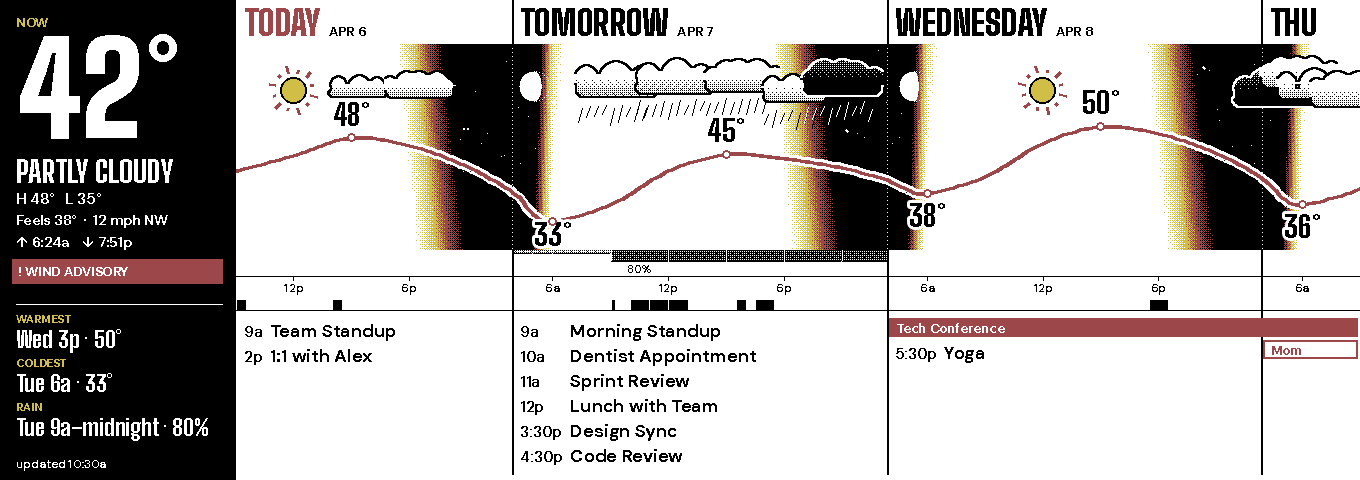
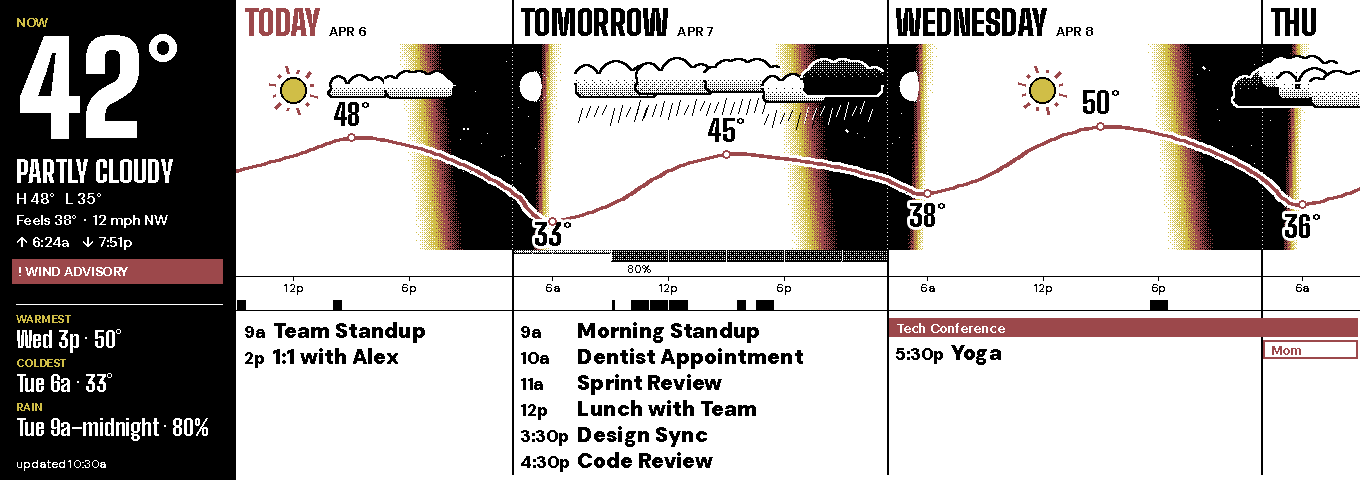
wide_horizon: set event rows in the heaviest DM Sans
Titles move from Bold 18 px to the axis maximum (wght 1000) at 21 px,
times from SemiBold 15 px to 900 at 17 px, in 26-px rows so a full day
still lists six. 800 and 900 hint to the same 1-bit stems as Bold at
this size, so the step goes to the maximum. Adds fonts.dm_black and
fonts.dm_extrablack.

Claude-Session: https://claude.ai/code/session_01KCiLHCYhChC1kojFWGv1dh

Changed region(s): [[0.3706, 0.6562, 0.5868, 1.0], [0.1853, 0.6562, 0.3088, 0.7812], [0.6485, 0.7188, 0.7412, 0.75]]

diff --git a/tests/test_wide_horizon_theme.py b/tests/test_wide_horizon_theme.py
@@ -662,6 +662,17 @@ class TestDayLists:
         rows = [self._list(img, day.date(), top=i * wh.ROW_H, h=wh.ROW_H) for i in range(6)]
         assert all(r > 100 for r in rows)
 
+    def test_rows_are_set_heavier_than_bold(self):
+        # Read at a glance across a room: the titles are the axis-maximum
+        # weight, which sets visibly more ink than DM Sans Bold at the same size.
+        evt = _event("Dentist Appointment", datetime(2026, 4, 7, 14))
+        data = DashboardData(events=[evt])
+        tue = date(2026, 4, 7)
+        heavy = self._list(_plate(data, mode="L").convert("1"), tue, h=wh.ROW_H)
+        with patch.object(fonts, "dm_extrablack", fonts.dm_bold):
+            bold = self._list(_plate(data, mode="L").convert("1"), tue, h=wh.ROW_H)
+        assert heavy > bold * 1.15
+
     def test_a_chip_on_another_day_does_not_push_the_list_down(self):
         evt = _event("Dentist", datetime(2026, 4, 7, 14))
         chip = _event("Conference", datetime(2026, 4, 8), hours=24, all_day=True)
@@ -1017,7 +1028,13 @@ class TestRender:
 class TestFonts:
     @pytest.mark.parametrize(
         "accessor",
-        [fonts.big_shoulders_semibold, fonts.big_shoulders_extrabold, fonts.big_shoulders_black],
+        [
+            fonts.big_shoulders_semibold,
+            fonts.big_shoulders_extrabold,
+            fonts.big_shoulders_black,
+            fonts.dm_black,
+            fonts.dm_extrablack,
+        ],
     )
     def test_loads_and_covers_the_glyphs_used(self, accessor):
         font = accessor(30)

diff --git a/src/render/components/wide_horizon_panel.py b/src/render/components/wide_horizon_panel.py
@@ -108,9 +108,11 @@ ALLDAY_H = 22
 STRIP_H = 10
 STRIP_GAP = 8
 # Each day's events listed in its own column, one line apiece.
-ROW_H = 25
-ROW_TITLE_PT = 18
-ROW_TIME_PT = 15
+# The heaviest DM Sans, a size up: read at a glance across a room. Six
+# rows still fill the band below the strip when no all-day chip crosses it.
+ROW_H = 26
+ROW_TITLE_PT = 21
+ROW_TIME_PT = 17
 COL_PAD = 8  # a column's text keeps this far off the midnight rules (= day-name inset)
 TIME_GAP = 8  # between the time cell and the title
 MIN_COL_W = 90  # a day's column narrower than this lists nothing, only a count
@@ -1423,9 +1425,9 @@ def _draw_events(draw, data: DashboardData, axis: TimeAxis, y0: int, y1: int, in
                     )
 
     hidden_by_day = overflow_counts(hidden, axis)
-    title_font = fonts.dm_bold(ROW_TITLE_PT)
-    time_font = fonts.dm_semibold(ROW_TIME_PT)
-    more_font = fonts.dm_bold(ROW_TIME_PT)
+    title_font = fonts.dm_extrablack(ROW_TITLE_PT)
+    time_font = fonts.dm_black(ROW_TIME_PT)
+    more_font = fonts.dm_black(ROW_TIME_PT)
 
     def measure_title(t: str) -> float:
         return text_width(draw, t, title_font)

diff --git a/src/render/fonts.py b/src/render/fonts.py
@@ -72,6 +72,15 @@ def dm_bold(size: int) -> ImageFont.FreeTypeFont:
     return _get_dm_sans(size, 700)
 
 
+def dm_black(size: int) -> ImageFont.FreeTypeFont:
+    return _get_dm_sans(size, 900)
+
+
+def dm_extrablack(size: int) -> ImageFont.FreeTypeFont:
+    """The axis maximum (1000): 800 and 900 hint to the same 1-bit stems as 700 at ~20 px."""
+    return _get_dm_sans(size, 1000)
+
+
 # Cinzel — Roman inscription caps, used for the D&D Fantasy theme.
 # Variable font with a single weight axis (wght 400–900).
 @lru_cache(maxsize=32)

diff --git a/CLAUDE.md b/CLAUDE.md
@@ -375,7 +375,7 @@ The cooldown is `display.min_refresh_interval_seconds` (config), defaulting to 6
 | `Oxanium-Variable.ttf` (OFL, variable) | `oxanium`, `oxanium_bold` | `terminal` — dashboard title, day column headers, quote body |
 | `Rajdhani-Regular.ttf` / `Rajdhani-SemiBold.ttf` (OFL) | `rajdhani`, `rajdhani_semibold` | `terminal` — month band, section labels, quote attribution |
 | `Orbitron-Variable.ttf` (OFL, variable) | `orbitron_black` | `terminal` — large today date numeral |
-| `DMSans.ttf` | `dm_regular/medium/semibold/bold` | `minimalist`, `weather`, `fuzzyclock`, `diags` (section labels), `countdown`, `astronomy`, `agenda`, `light_cycle`, `constellation_map` (margin) |
+| `DMSans.ttf` | `dm_regular/medium/semibold/bold/black/extrablack` | `wide_horizon` event rows (`dm_extrablack` titles, `dm_black` times — the axis maximum, since 800 and 900 hint to the same 1-bit stems as 700 at ~20 px), `minimalist`, `weather`, `fuzzyclock`, `diags` (section labels), `countdown`, `astronomy`, `agenda`, `light_cycle`, `constellation_map` (margin) |
 | `PlayfairDisplay-*.ttf` | `playfair_regular/medium/semibold/bold` | `old_fashioned`, `qotd`, `almanac` (body + quote), `wide_week` rail (masthead, temperature, NEXT time, quote mark) |
 | `Literata-SemiBold.ttf` / `Literata-Bold.ttf` (OFL; static instances at opsz 12 cut from the upstream variable font with `fonttools varLib.instancer`) | `literata_semibold`, `literata_bold` | `wide_week` rail — the quote (SemiBold ≥ 18 px, Bold below, via `wide_week_rail_panel.quote_font`) |
 | `Cinzel.ttf` | `cinzel_regular/semibold/bold/black` | `fantasy`, `old_fashioned` section labels, `moonphase`, `almanac` (section labels + small caps) |
@@ -504,7 +504,7 @@ default to `None` and fall back gracefully so adding a new field never breaks ex
 - **`display.scaling` decides how an off-size canvas reaches the panel** (`fit_canvas()` in `src/display/backend.py`). Every version so far stretched, and `auto` (the default) still does unless `distortion()` — the ratio between the panel's aspect and the canvas's — exceeds `FIT_DISTORTION_THRESHOLD` (4/3): a 4:3 `epd13in3k` is 1.25 and renders byte-identically to before, the 1360×480 strip is 1.7 and fits. `fit` pads with the theme's `bg`, passed to the backend as `background=` in the canvas's own mode (`pad_value()` converts it); `stretch` and `fit` are explicit overrides, and an unknown value behaves as `auto` at render time while `validate_config()` reports it. The backend tests build their config as a `MagicMock`, which is why `resolve_scaling()` treats anything but the two explicit strings as auto rather than raising.
 - **The `wide_*` themes declare a 1360×480 canvas** (`wide_week`, `wide_day`, `wide_forecast`, `wide_horizon`, `wide_night`, `wide_night_invert`, `wide_diags`, `halftone_agenda_wide`) and are the reason previews are rendered at the theme's canvas size when its *shape* differs from the panel's (`scripts/build_previews.py` swaps `cfg.display` width/height for the layout's only on an aspect mismatch — a supersampled 1600×960 canvas keeps the panel's 800×480 and its downsample) — on an 800×480 config they letterbox to a 800×282 band, which is what the pixel-snapshot and idle-tick suites hash. They are kept out of a random rotation on a panel of the other shape: `random_theme.eligible_themes(..., panel=)` drops any theme whose canvas would be fitted with padding there (`theme_fits_panel`, the same `FIT_DISTORTION_THRESHOLD` test `display.scaling: auto` applies), and `services/theme.py` and `validate_config` pass the configured panel. `OutputService` keys its default cooldown on the display spec, not the provider string, so a colour Waveshare model gets Inky's 60 s rather than the mono 0 s. `primitives.next_birthday()` is the one home of the Feb 29 → Feb 28 rollover; `birthday_bar`, `almanac`, `wide_day_panel` and `halftone_agenda_wide_panel` all call it. `wide_week` is the standard `week_view` on the right (920 px, full height, no header) beside `wide_week_rail_panel.py`, a 440-px broadsheet rail (Playfair Display, accent small-caps labels, hairline rules; section tops are fixed constants so the rules land in the same place daily) whose NOW/NEXT line is its one clock-driven element, moving only at event boundaries (hence `EXTRA_EVENT_DAYS["wide_week"] = 1`); the rail's type floor is 13 px with 16-px DM Sans **SemiBold** body rows (Medium at 13 px rasterised to hairlines), its quote is **Literata** (a reading serif drawn for e-readers; Playfair's hairlines broke up even at SemiBold) at SemiBold from 18 px and Bold below, because bilevel hinting snaps SemiBold's stems to 2 px at 16–17 px and a long quote stepping down a size would visibly thin out (`TestQuoteWeight` pins a 3-px stem at every `QUOTE_PTS` size), and `draw_wide_week_rail` sets `draw.fontmode = "1"` around the whole rail (restoring the caller's afterwards) because on the colour panels' RGB canvas antialiased glyph edges were cut at mid-grey by the four-ink snap, erasing Playfair's hairlines — `TestBilevelType` pins both; its sky rows reuse `wide_horizon_panel.sun_zone` for naive preview clocks; colour is split by ink — red (primary accent) for labels and warnings, yellow (the resolved `accent_warn`) **only as a fill behind ink type** (NOW/NEXT band, rain chips, a birthday today), never as type or rules, and `highlight()` returns `None` where `accent_warn` resolves to `fg` (mono) so the fills drop out rather than blacking the type out — the grid's `secondary_accent_fill()` colours the weekend headers' *text*, so switching the theme's secondary accent to yellow would have put yellow type in the grid; `wide_day` (`wide_day_panel.py`) packs bars into lanes by `pack_lanes()` over *bar-plus-label* pixel extents, not time spans — a thirty-minute meeting is 24 px on a sixteen-hour axis, so packing by time alone left a busy day as one lane of anonymous boxes — and is in `TIME_DRIVEN` (NOW marker) and `THEMES_NEEDING_TOMORROW` (its UP NEXT rail). `wide_forecast` (`wide_forecast_panel.py`) is idle-stable; its yellow precipitation fill is drawn only when `secondary_accent_fill()` differs from `fg` (`_tint()`), because on a monochrome plate a fill behind ink text is unreadable. All three name only red/yellow/black accents so the Inky preview and the four-ink panel agree.
 - **Art regions are the one place a colour panel dithers.** A colour backend snaps every pixel to the nearest ink (`quantize_to_palette_nearest` on the G panel, the Inky driver at write time), which flattens an illustration's gradient to one ink while the same theme's greyscale path keeps its engraving. `RenderContext.dither_regions` is a list the adapter fills from the panel's pure `art_rect(region)` (`halftone`, `halftone_agenda`, `halftone_agenda_wide` and `day_arc` declare their art panes; the panel itself never sees the list, so it stays a pure function of its inputs), and `canvas.render_dashboard` passes it to `resize_and_finalize(..., dither_regions=...)`. `backend.dither_art_regions()` maps each rectangle through `placement()` — the same arithmetic `fit_canvas` uses, so a region declared in canvas coordinates lands on the fitted or stretched plate — cuts it from the resized canvas *before* the snap, Floyd-Steinberg-diffuses it onto the inks with `quantize_to_palette_fs`, and pastes it over the snapped plate. Floyd-Steinberg, not ordered Bayer: it is what the themes' L-mode path already uses, so the engraving matches across panels, and diffusion has no error to spread on an exact ink, so a solid yellow disc stays solid where a Bayer offset would speckle it. On Inky the target palette is `INKY_SPECTRA6_PALETTE` (the driver's measured values) so the write-time nearest mapping is the identity on the region. On the G panel the art helpers still fill with the measured Spectra values (`skyart.accent_yellow`, `artkit.accent_red` don't know the panel), so `G_EXACT_REMAP` substitutes each Spectra-6 value with the G ink at the same index *before* diffusion — diffusing (208,190,71) against (255,255,0) turned a solid sun disc 47% yellow. Neutral pixels diffuse against black and white only (`NEUTRAL_SPREAD`); diffusing them against the whole palette let accumulated error drift in hue and sprinkled a night sky with coloured dots. The mixing widens the perceived gamut only *inside* the hull of the inks — orange, pink, maroon, olive and greys on the G panel — and can never produce a blue or green there. Declaring a region that contains type will speckle it; the mono `WaveshareBackend` ignores the list because its whole plate already dithers.
-- **`wide_horizon` puts the next 72 hours on one axis** (`wide_horizon_panel.py`). The window starts at `window_start(now)` — the 3-hour forecast slot holding now — so the clock moves the plate at most eight times a day and the theme stays out of `TIME_DRIVEN`; the TODAY→TONIGHT switch keys on the slot for the same reason (and `header_label()` sets today's name as a caption in the date face when its slice is too narrow for a headline — never a shrunken headline, never the short weekday), and the hero's "updated" caption reads `content_time`. `TimeAxis` is piecewise-linear by clock hour (`hour_weight`: 23:00–06:00 at `NIGHT_WEIGHT`), ~19 px per waking hour against ~16 linear. The sky's colour per column is `astronomy.solar_altitude` at that column's time plus `HORIZON_GLOW_DEG` toward the band's bottom, mapped by `sky_field()` to **ordered dithers between pairs of inks** (white/yellow, yellow/red, red/black on colour; one black/white ramp on mono) from an 8×8 Bayer phased to canvas coordinates. Everything on the plate is an exact ink — tones are dithered here and type is set with `draw.fontmode = "1"` — so the four-ink snap and the mono threshold are the identity at native size. The sky is deliberately **not** an art region: `dither_art_regions()` is not the identity on a tile of exact inks (its neutral pass Floyd-Steinbergs the tile's luminance, flipping black/white pixels beside red and yellow), so declaring it speckled the plate on the panel it was drawn for — `test_native_pipeline_changes_nothing_but_the_ink_snap` pins this. The theme declares `ordered` quantization so a *scaled mono* panel re-screens rather than flattening a blurred dither (which also derives it out of partial refresh); small type on a scaled plate comes out screened, the accepted cost of a strip theme on the wrong shape. The temperature comes from `WeatherData.hourly` (the OWM 3-hour grid, kept by `weather._parse_hourly`); `daily_extremes` labels only real turning points, since the window cuts days at both ends. OWM's grid starts at the first 3-hour **UTC** boundary after the request, so it never lines up with the local slot the window opens on; `lead_in()` fills the gap with stand-in slots carrying the current reading and icon, and `dummy_data._dummy_hourly` starts its grid the same way OWM does so previews exercise it. A slot is three hours of real time but the axis is the wall clock, so every consumer takes slot ends from `slot_spans()` (each ends where the next begins, trusted within an hour of 3 h) — `start + 3 h` left an hour of the plate blank at spring-forward and overlapped slots at fall-back. Stand-ins are the reading now held flat, so `daily_extremes` and `outlook` take `real_from` (the first real slot) and never label or report one — without it an evening plate showed its flat stand-in as the day's "high". High/low labels go through `place_label()`, which slides a label off any sun or moon box (`_draw_suns`/`_draw_moons` return boxes, not x) toward the side nearer its point. The events band is a **schedule strip** (a block per timed event over its real span, a pixel of paper either side so back-to-back meetings stay two) over **one list per day**, set in that day's midnight-to-midnight column (`day_columns()`): one line per event, start time then title, so labels never have to fit the ~19 px/hour axis — packing labels onto the axis staircased them into lanes and hid events while half the band sat empty. An event is listed on its start day, or the window's first day if it began earlier, where its time cell reads `–end` (`row_time()`). All-day chips are stacked by `stack_chips()`, not `pack_lanes()`: multi-day spans are seated first (longest first where they start together), and a single day takes the first free row below every span it overlaps, so a trip is never drawn under a one-day item on the same days; left-to-right packing gave row 0 to whichever chip started first. A list starts below only the all-day chips that cross its own column (`allday_depth()`). When a day has more rows than fit, or all-day chips past `ALLDAY_MAX_ROWS`, its last row is `+N more` instead of an event (`list_rows()`); a column under `MIN_COL_W` (an evening sliver) lists nothing and shows only `+N`. Clouds/rain/snow/storm/fog are drawn per slot from its icon (`sky_kind`), seeded by the slot's clock hour so they travel with the window; an overcast or wet slot hides the sun at noon and the moon at transit (`sun_hidden`), and scattered clouds keep `SUN_CLEARANCE` off both. With a naive render clock (previews, snapshots) `sun_zone()` places the sun in the whole-hour zone the longitude implies instead of UTC. `EXTRA_EVENT_DAYS["wide_horizon"] = 3`.
+- **`wide_horizon` puts the next 72 hours on one axis** (`wide_horizon_panel.py`). The window starts at `window_start(now)` — the 3-hour forecast slot holding now — so the clock moves the plate at most eight times a day and the theme stays out of `TIME_DRIVEN`; the TODAY→TONIGHT switch keys on the slot for the same reason (and `header_label()` sets today's name as a caption in the date face when its slice is too narrow for a headline — never a shrunken headline, never the short weekday), and the hero's "updated" caption reads `content_time`. `TimeAxis` is piecewise-linear by clock hour (`hour_weight`: 23:00–06:00 at `NIGHT_WEIGHT`), ~19 px per waking hour against ~16 linear. The sky's colour per column is `astronomy.solar_altitude` at that column's time plus `HORIZON_GLOW_DEG` toward the band's bottom, mapped by `sky_field()` to **ordered dithers between pairs of inks** (white/yellow, yellow/red, red/black on colour; one black/white ramp on mono) from an 8×8 Bayer phased to canvas coordinates. Everything on the plate is an exact ink — tones are dithered here and type is set with `draw.fontmode = "1"` — so the four-ink snap and the mono threshold are the identity at native size. The sky is deliberately **not** an art region: `dither_art_regions()` is not the identity on a tile of exact inks (its neutral pass Floyd-Steinbergs the tile's luminance, flipping black/white pixels beside red and yellow), so declaring it speckled the plate on the panel it was drawn for — `test_native_pipeline_changes_nothing_but_the_ink_snap` pins this. The theme declares `ordered` quantization so a *scaled mono* panel re-screens rather than flattening a blurred dither (which also derives it out of partial refresh); small type on a scaled plate comes out screened, the accepted cost of a strip theme on the wrong shape. The temperature comes from `WeatherData.hourly` (the OWM 3-hour grid, kept by `weather._parse_hourly`); `daily_extremes` labels only real turning points, since the window cuts days at both ends. OWM's grid starts at the first 3-hour **UTC** boundary after the request, so it never lines up with the local slot the window opens on; `lead_in()` fills the gap with stand-in slots carrying the current reading and icon, and `dummy_data._dummy_hourly` starts its grid the same way OWM does so previews exercise it. A slot is three hours of real time but the axis is the wall clock, so every consumer takes slot ends from `slot_spans()` (each ends where the next begins, trusted within an hour of 3 h) — `start + 3 h` left an hour of the plate blank at spring-forward and overlapped slots at fall-back. Stand-ins are the reading now held flat, so `daily_extremes` and `outlook` take `real_from` (the first real slot) and never label or report one — without it an evening plate showed its flat stand-in as the day's "high". High/low labels go through `place_label()`, which slides a label off any sun or moon box (`_draw_suns`/`_draw_moons` return boxes, not x) toward the side nearer its point. The events band is a **schedule strip** (a block per timed event over its real span, a pixel of paper either side so back-to-back meetings stay two) over **one list per day**, set in that day's midnight-to-midnight column (`day_columns()`): one line per event, start time then title (21 px `dm_extrablack` over 17 px `dm_black` in 26-px rows — six still fill the band), so labels never have to fit the ~19 px/hour axis — packing labels onto the axis staircased them into lanes and hid events while half the band sat empty. An event is listed on its start day, or the window's first day if it began earlier, where its time cell reads `–end` (`row_time()`). All-day chips are stacked by `stack_chips()`, not `pack_lanes()`: multi-day spans are seated first (longest first where they start together), and a single day takes the first free row below every span it overlaps, so a trip is never drawn under a one-day item on the same days; left-to-right packing gave row 0 to whichever chip started first. A list starts below only the all-day chips that cross its own column (`allday_depth()`). When a day has more rows than fit, or all-day chips past `ALLDAY_MAX_ROWS`, its last row is `+N more` instead of an event (`list_rows()`); a column under `MIN_COL_W` (an evening sliver) lists nothing and shows only `+N`. Clouds/rain/snow/storm/fog are drawn per slot from its icon (`sky_kind`), seeded by the slot's clock hour so they travel with the window; an overcast or wet slot hides the sun at noon and the moon at transit (`sun_hidden`), and scattered clouds keep `SUN_CLEARANCE` off both. With a naive render clock (previews, snapshots) `sun_zone()` places the sun in the whole-hour zone the longitude implies instead of UTC. `EXTRA_EVENT_DAYS["wide_horizon"] = 3`.
 - **`wide_night` gets its red from the primary accent, not from `bg`.** `_resolve_style()` only maps `fg`/`bg` to black or white, so a red ground cannot be declared as a style colour. The theme is a dark-canvas plate (`fg=1, bg=0` — which also derives it out of partial refresh and pads a letterboxed plate dark), and `wide_night_panel.colours()` fills the region with `primary_accent_fill()` and draws the marks in `bg` whenever the accent differs from `fg`; on monochrome the accent collapses onto `fg`, so it falls back to white-on-black. Marks are sized to one shared height by `fit_height()` — up to 80% of the plate, but in practice the row's width sets it — with a minimum gap proportional to the height (`MIN_GAP_FRACTION = 0.9`, the knob for the plate's overall size; a fixed gap is overtaken by the space inside `42°` as marks grow). Labels are a fixed `LABEL_PT`, tracked by hand (`tracked_width()` / `_draw_label()`, since PIL has no letter-spacing), and the marks' centre sits above the midline by half the label band so the group is centred. **Measure with `ink_box()`, not `textbbox()`**: for the weather-icons face `textbbox` returns the glyph's whole cell — every moon phase reports the full disc — so spacing by it leaves a crescent's gap on the wrong side. The moon glyphs ink only the lit part (the new-moon glyph is just a ring); the plate draws the lit part alone, with no outline on the dark limb, so a new moon shows nothing. The ring is still used to size the moon (so the disc is the shared height) and centre it vertically. Excluded from the random pool (a night plate drawn at noon is a surprise), `repaint_slot_hours=1`. `wide_night_invert` is the same layout via `dataclasses.replace` with `draw_order=["wide_night_invert"]` — a second component on the same `wide_night` region that calls `draw_wide_night(..., invert=True)`, which swaps `colours()`' ground and ink.
 - **`wide_diags` reads the panel's ink set off the resolved style.** It is the `diags` component on a `diags` region of `(0, 0, 800, 480)` plus `wide_diags_panel.py` on a new `ThemeLayout.wide_diags` region beside it (`draw_order=["diags", "wide_diags"]`). The theme leaves every accent role unset, so `_resolve_style()` fills them from the panel's palette; `panel_inks()` takes `fg`, `bg`, `accent_warn/alert/info/good` and keeps the first of each value — on the G panel blue and green resolve to black and drop out (four inks), on Inky all six survive, on monochrome every accent collapses onto `fg` (two). Ramps and textures are Bayer-screened by the panel in exact inks (`bayer_field` from `wide_horizon_panel`, phased to canvas coordinates) with `draw.fontmode = "1"`, so the colour snap is the identity on them — `test_g_swatches_reach_the_panel_as_drawn` pins that against a direct draw. The DIFFUSED row is the one art region (`diffused_rect()`, appended to `dither_regions` by the adapter): a hue sweep over a grey ramp the colour backend Floyd-Steinbergs; on a `"1"` canvas the panel pastes the grey ramp pre-dithered by PIL. `preferred_quantization_mode="ordered"` derives it out of partial refresh. It is in `ALWAYS_LIVE` in the idle-tick test (live host metrics, like `diags`) and excluded from the pool.
 - **`halftone_agenda_wide` is `halftone_agenda` drawn for the strip, not a copy of it.** `halftone_agenda_wide_panel.py` imports the original's `_draw_weather_band`, `_sun_times`, `_clock`, `event_times`, `inline_range`, `two_line_time_fits`, `past_screen` and `_location_text` (private names, deliberately — the two plates must read out the same things, and a second copy of the band or the time-cell rules would drift). The agenda pane itself is this plate's own (`_draw_wide_agenda`), and it deliberately has **no state treatments** — no perforated past rows, no inverted running event, no next-up accent, no `NEXT` figure in the header: on the four-ink panel every repaint is a twenty-second colour flash and each treatment repaints at every event boundary, so the day is shown whole and the same from dawn to dusk, with the after-dark rollover the one clock-driven change (one repaint a day). `tests/test_halftone_agenda_wide_theme.py` pins that a render before, during and after an event is byte-identical. Colour keys on the *kind* of event instead — a timed event's tick is `artkit.accent_yellow_solid`, an all-day event's `accent_red` (outlined in ink on mono, where both accents are ink) — which costs no repaints; the colour-panel variant of that test pins it. Use `accent_yellow_solid`, not `skyart.accent_yellow`, for marks and type: the latter's L-mode fallback is a light grey that `harden_typeset` snaps to paper. What 520 px of width pays for — a header dateline with the day's totals (`booked_minutes` counts overlaps once), a **schedule strip** (`_draw_schedule_strip`, solid blocks whatever the hour), a duration column, `— Nh Nm free` gap markers between events at least `GAP_MIN_MINUTES` apart (`gap_after` measures from the latest end so far, so a long event swallowing a short one reports no phantom gap), and time cells in **Antonio** (condensed, so titles gain the width). Its tiers are `_WIDE_TIERS`, chosen by `wide_metrics()` on rows *plus* gap markers, which are dropped before the type shrinks past 18 px. It adds the third pane: a rail with an alert bar, the next day's events, the forecast, birthdays, and an air-and-moon foot anchored to the rail's bottom (`FOOT_H`) so it can never be pushed off by a long birthday list — the birthdays cell takes whatever is left above it. The rail shows the day after tomorrow once the agenda has rolled over, so the theme needs two extra days of events: `src/app.py` now carries `EXTRA_EVENT_DAYS` (theme → days past the standard week) with `THEMES_NEEDING_TOMORROW` derived from its keys, and `_event_window_for_theme` returns `7 + extra`. Rail rows are 24 px with a 14-pt Righteous label over a 3-px Bayer rule; the whole rail is hardened like the agenda pane. It is in `DECLINES_PARTIAL` in `tests/test_theme_partial_refresh.py` for the same reason its sibling is.

diff --git a/CHANGELOG.md b/CHANGELOG.md
@@ -77,6 +77,12 @@ The format is based on [Keep a Changelog](https://keepachangelog.com/).
   took the top row and pushed the trip under it. Spans are now seated first,
   and a single day goes below every span it overlaps; a day no span crosses
   still uses the top row.
+- **`wide_horizon` event rows are heavier.** Titles are DM Sans at its axis
+  maximum weight (1000) at 21 px and times weight 900 at 17 px, up from Bold
+  18 px over SemiBold 15 px; rows grow to 26 px and a full day still shows
+  six. Weights 800 and 900 at this size hint to the same 1-bit stems as Bold,
+  which is why the step goes to the maximum. New accessors `fonts.dm_black`
+  and `fonts.dm_extrablack`.
 
 - **`wide_horizon` lists each day's events instead of hanging labels on the
   time axis.** A waking hour is about 19 px wide and a label about 150, so
